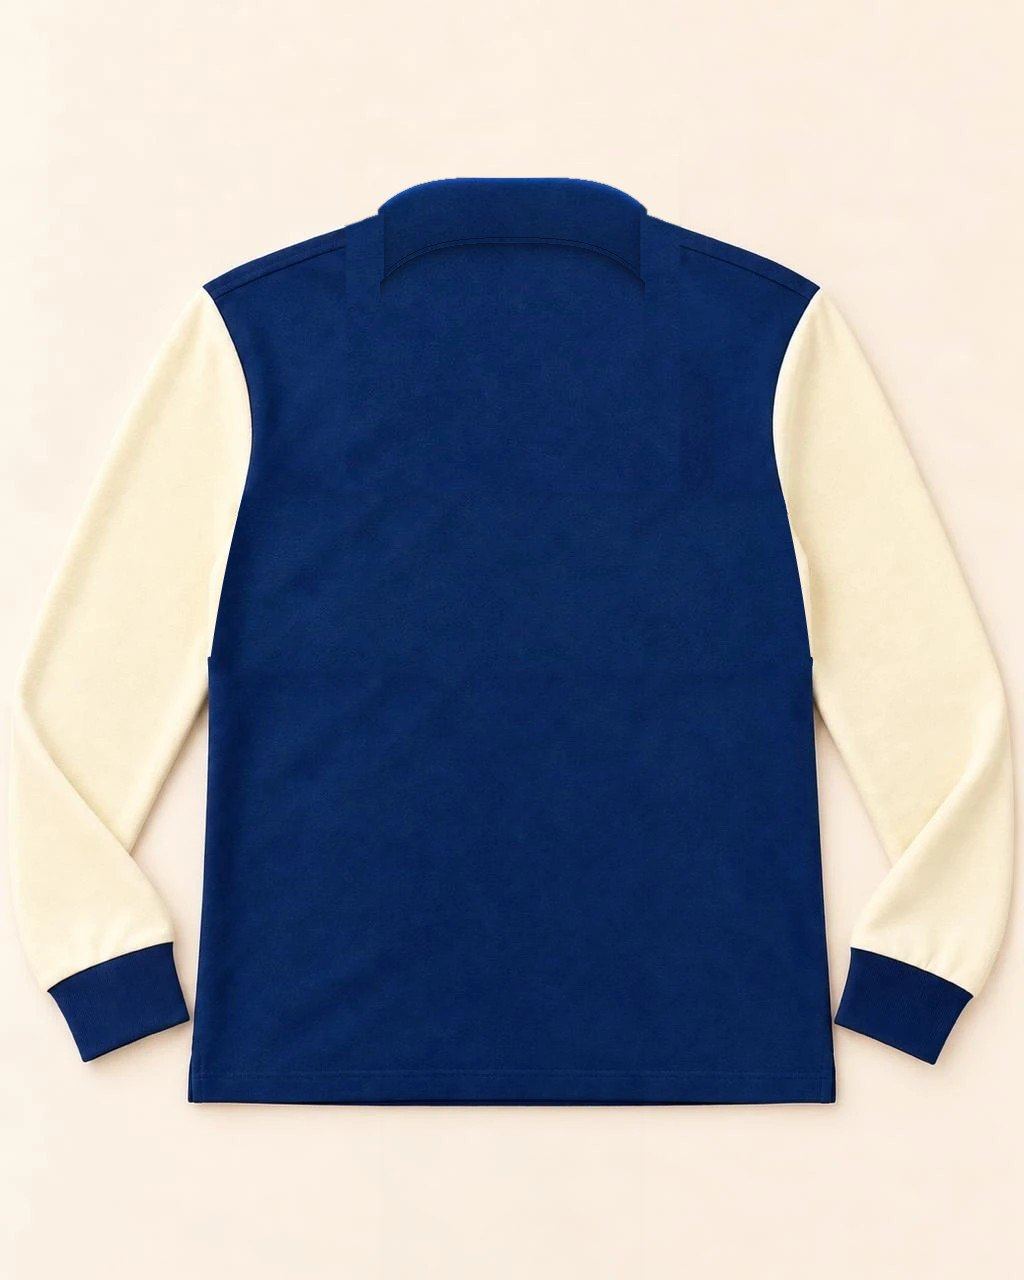
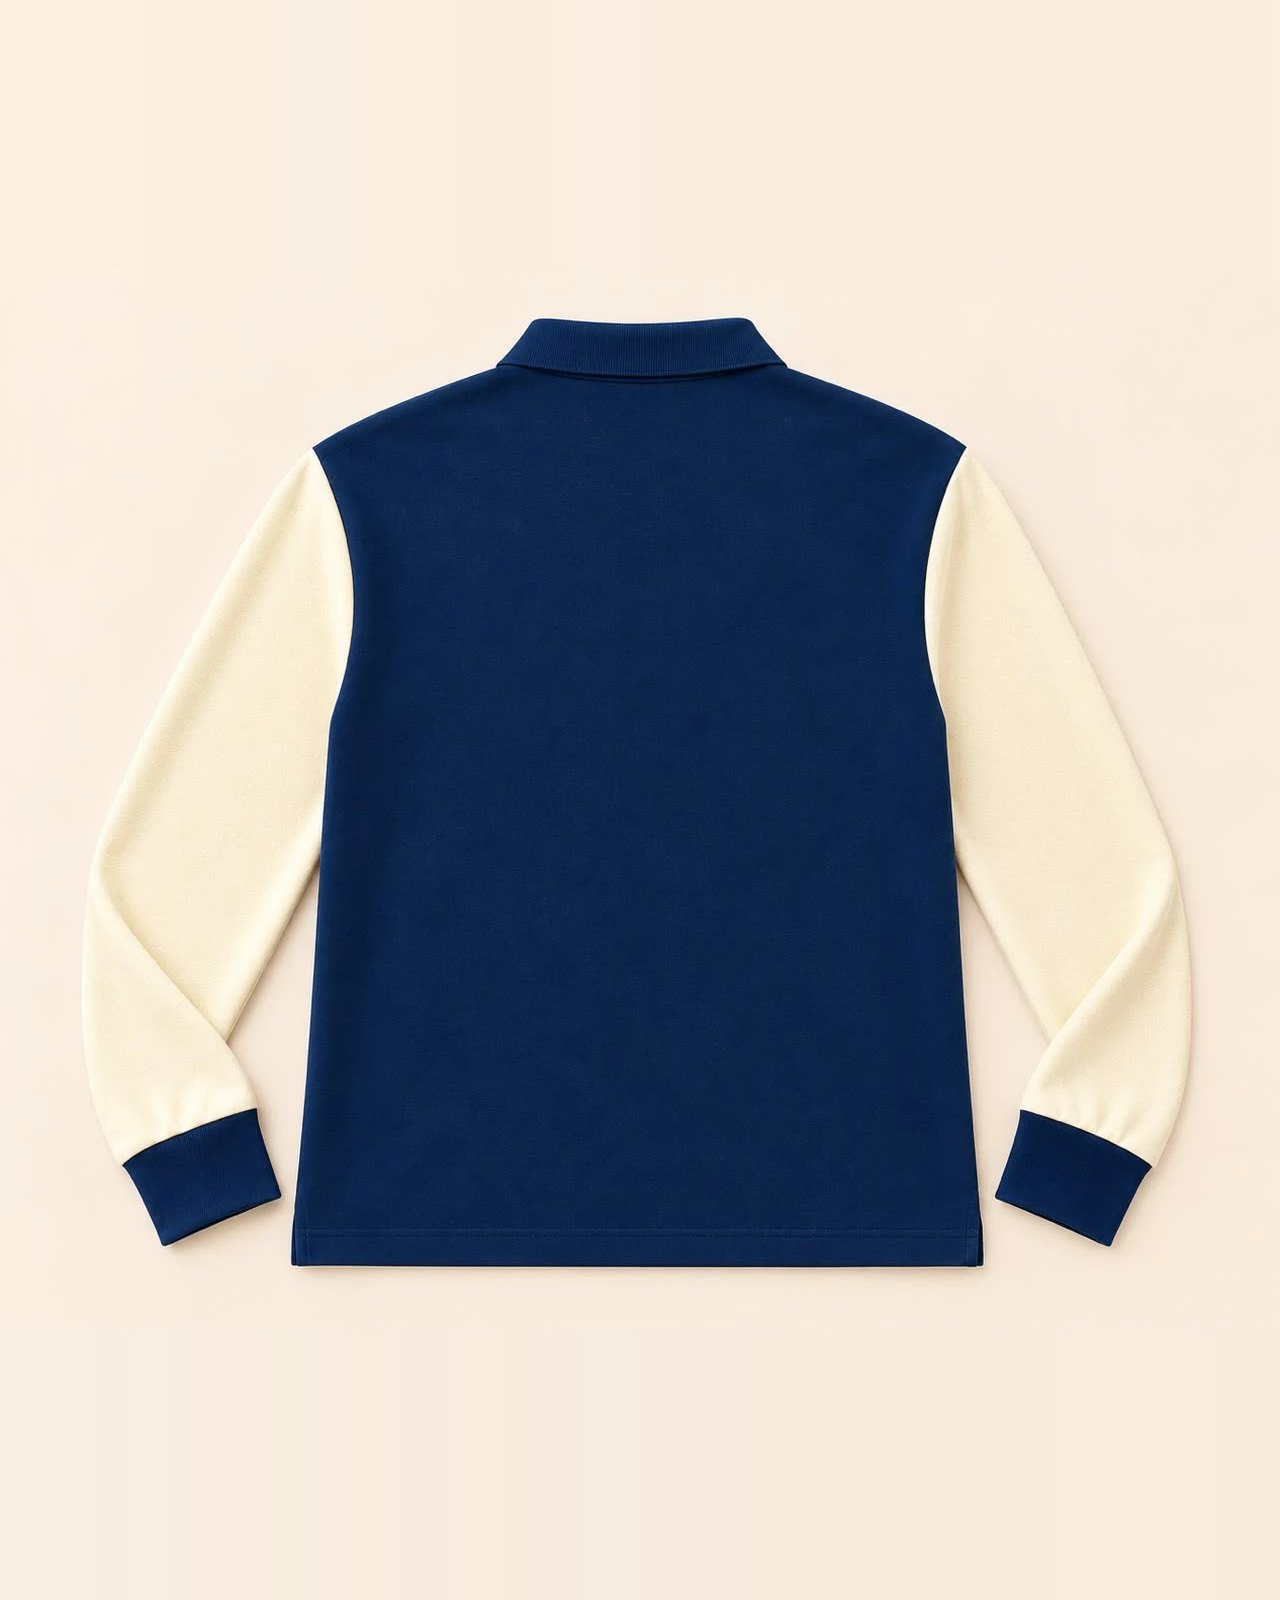
Bleu indigo : nouvelles photos face, portée et dos, pastille au nouveau bleu

diff --git a/index.html b/index.html
@@ -15,7 +15,7 @@
   <link rel="preconnect" href="https://fonts.googleapis.com">
   <link rel="preconnect" href="https://fonts.gstatic.com" crossorigin>
   <link href="https://fonts.googleapis.com/css2?family=Cormorant+Garamond:ital,wght@0,400;0,500;0,600;1,400&family=Jost:wght@300;400;500&display=swap" rel="stylesheet">
-  <link rel="stylesheet" href="css/style.css?v=38">
+  <link rel="stylesheet" href="css/style.css?v=39">
 </head>
 <body data-page="accueil">
 
@@ -173,7 +173,7 @@
     <svg viewBox="0 0 32 32"><path d="M16 3a13 13 0 0 0-11.2 19.6L3 29l6.6-1.7A13 13 0 1 0 16 3zm0 23.7a10.7 10.7 0 0 1-5.5-1.5l-.4-.2-3.9 1 1-3.8-.2-.4A10.7 10.7 0 1 1 16 26.7zm5.9-8c-.3-.2-1.9-.9-2.2-1s-.5-.2-.7.2-.8 1-1 1.2-.4.2-.7.1a8.8 8.8 0 0 1-4.4-3.8c-.3-.6.3-.5 1-1.7.1-.2 0-.4 0-.5l-1-2.4c-.3-.6-.5-.5-.7-.5h-.6a1.2 1.2 0 0 0-.9.4 3.6 3.6 0 0 0-1.1 2.7 6.3 6.3 0 0 0 1.3 3.3 14.4 14.4 0 0 0 5.5 4.9c2 .9 2.8 1 3.9.8a3.3 3.3 0 0 0 2.1-1.5 2.7 2.7 0 0 0 .2-1.5c-.1-.1-.3-.2-.6-.3z"/></svg>
   </a>
 
-  <script src="js/config.js?v=38"></script>
-  <script src="js/app.js?v=38"></script>
+  <script src="js/config.js?v=39"></script>
+  <script src="js/app.js?v=39"></script>
 </body>
 </html>

diff --git a/produit.html b/produit.html
@@ -14,7 +14,7 @@
   <link rel="preconnect" href="https://fonts.googleapis.com">
   <link rel="preconnect" href="https://fonts.gstatic.com" crossorigin>
   <link href="https://fonts.googleapis.com/css2?family=Cormorant+Garamond:ital,wght@0,400;0,500;0,600;1,400&family=Jost:wght@300;400;500&display=swap" rel="stylesheet">
-  <link rel="stylesheet" href="css/style.css?v=38">
+  <link rel="stylesheet" href="css/style.css?v=39">
 </head>
 <body data-page="produit">
 
@@ -313,7 +313,7 @@
     <svg viewBox="0 0 32 32"><path d="M16 3a13 13 0 0 0-11.2 19.6L3 29l6.6-1.7A13 13 0 1 0 16 3zm0 23.7a10.7 10.7 0 0 1-5.5-1.5l-.4-.2-3.9 1 1-3.8-.2-.4A10.7 10.7 0 1 1 16 26.7zm5.9-8c-.3-.2-1.9-.9-2.2-1s-.5-.2-.7.2-.8 1-1 1.2-.4.2-.7.1a8.8 8.8 0 0 1-4.4-3.8c-.3-.6.3-.5 1-1.7.1-.2 0-.4 0-.5l-1-2.4c-.3-.6-.5-.5-.7-.5h-.6a1.2 1.2 0 0 0-.9.4 3.6 3.6 0 0 0-1.1 2.7 6.3 6.3 0 0 0 1.3 3.3 14.4 14.4 0 0 0 5.5 4.9c2 .9 2.8 1 3.9.8a3.3 3.3 0 0 0 2.1-1.5 2.7 2.7 0 0 0 .2-1.5c-.1-.1-.3-.2-.6-.3z"/></svg>
   </a>
 
-  <script src="js/config.js?v=38"></script>
-  <script src="js/app.js?v=38"></script>
+  <script src="js/config.js?v=39"></script>
+  <script src="js/app.js?v=39"></script>
 </body>
 </html>

diff --git a/merci.html b/merci.html
@@ -10,7 +10,7 @@
   <link rel="preconnect" href="https://fonts.googleapis.com">
   <link rel="preconnect" href="https://fonts.gstatic.com" crossorigin>
   <link href="https://fonts.googleapis.com/css2?family=Cormorant+Garamond:ital,wght@0,400;0,500;0,600;1,400&family=Jost:wght@300;400;500&display=swap" rel="stylesheet">
-  <link rel="stylesheet" href="css/style.css?v=38">
+  <link rel="stylesheet" href="css/style.css?v=39">
 </head>
 <body data-page="merci">
   <header class="entete page">
@@ -33,7 +33,7 @@
     </div>
   </main>
 
-  <script src="js/config.js?v=38"></script>
-  <script src="js/app.js?v=38"></script>
+  <script src="js/config.js?v=39"></script>
+  <script src="js/app.js?v=39"></script>
 </body>
 </html>

diff --git a/epuise.html b/epuise.html
@@ -12,7 +12,7 @@
   <link rel="preconnect" href="https://fonts.googleapis.com">
   <link rel="preconnect" href="https://fonts.gstatic.com" crossorigin>
   <link href="https://fonts.googleapis.com/css2?family=Cormorant+Garamond:ital,wght@0,400;0,500;0,600;1,400&family=Jost:wght@300;400;500&display=swap" rel="stylesheet">
-  <link rel="stylesheet" href="css/style.css?v=38">
+  <link rel="stylesheet" href="css/style.css?v=39">
 </head>
 <body data-page="epuise">
 
@@ -79,7 +79,7 @@
     </div>
   </footer>
 
-  <script src="js/config.js?v=38"></script>
-  <script src="js/app.js?v=38"></script>
+  <script src="js/config.js?v=39"></script>
+  <script src="js/app.js?v=39"></script>
 </body>
 </html>

diff --git a/js/config.js b/js/config.js
@@ -72,7 +72,7 @@ window.STORE = {
       id: "marine",
       nom: "Bleu indigo & Beige",
       court: "Bleu indigo",
-      principal: "#1d3b8c",
+      principal: "#22406e",
       accent: "#e8dcc4",
       photos: ["assets/marine-face.jpg", "assets/marine-selfie.jpg", "assets/marine-dos.jpg"], // face, porté, dos
       phrase: "Le classique des clubs. Il va avec tout ce que vous avez déjà.",
